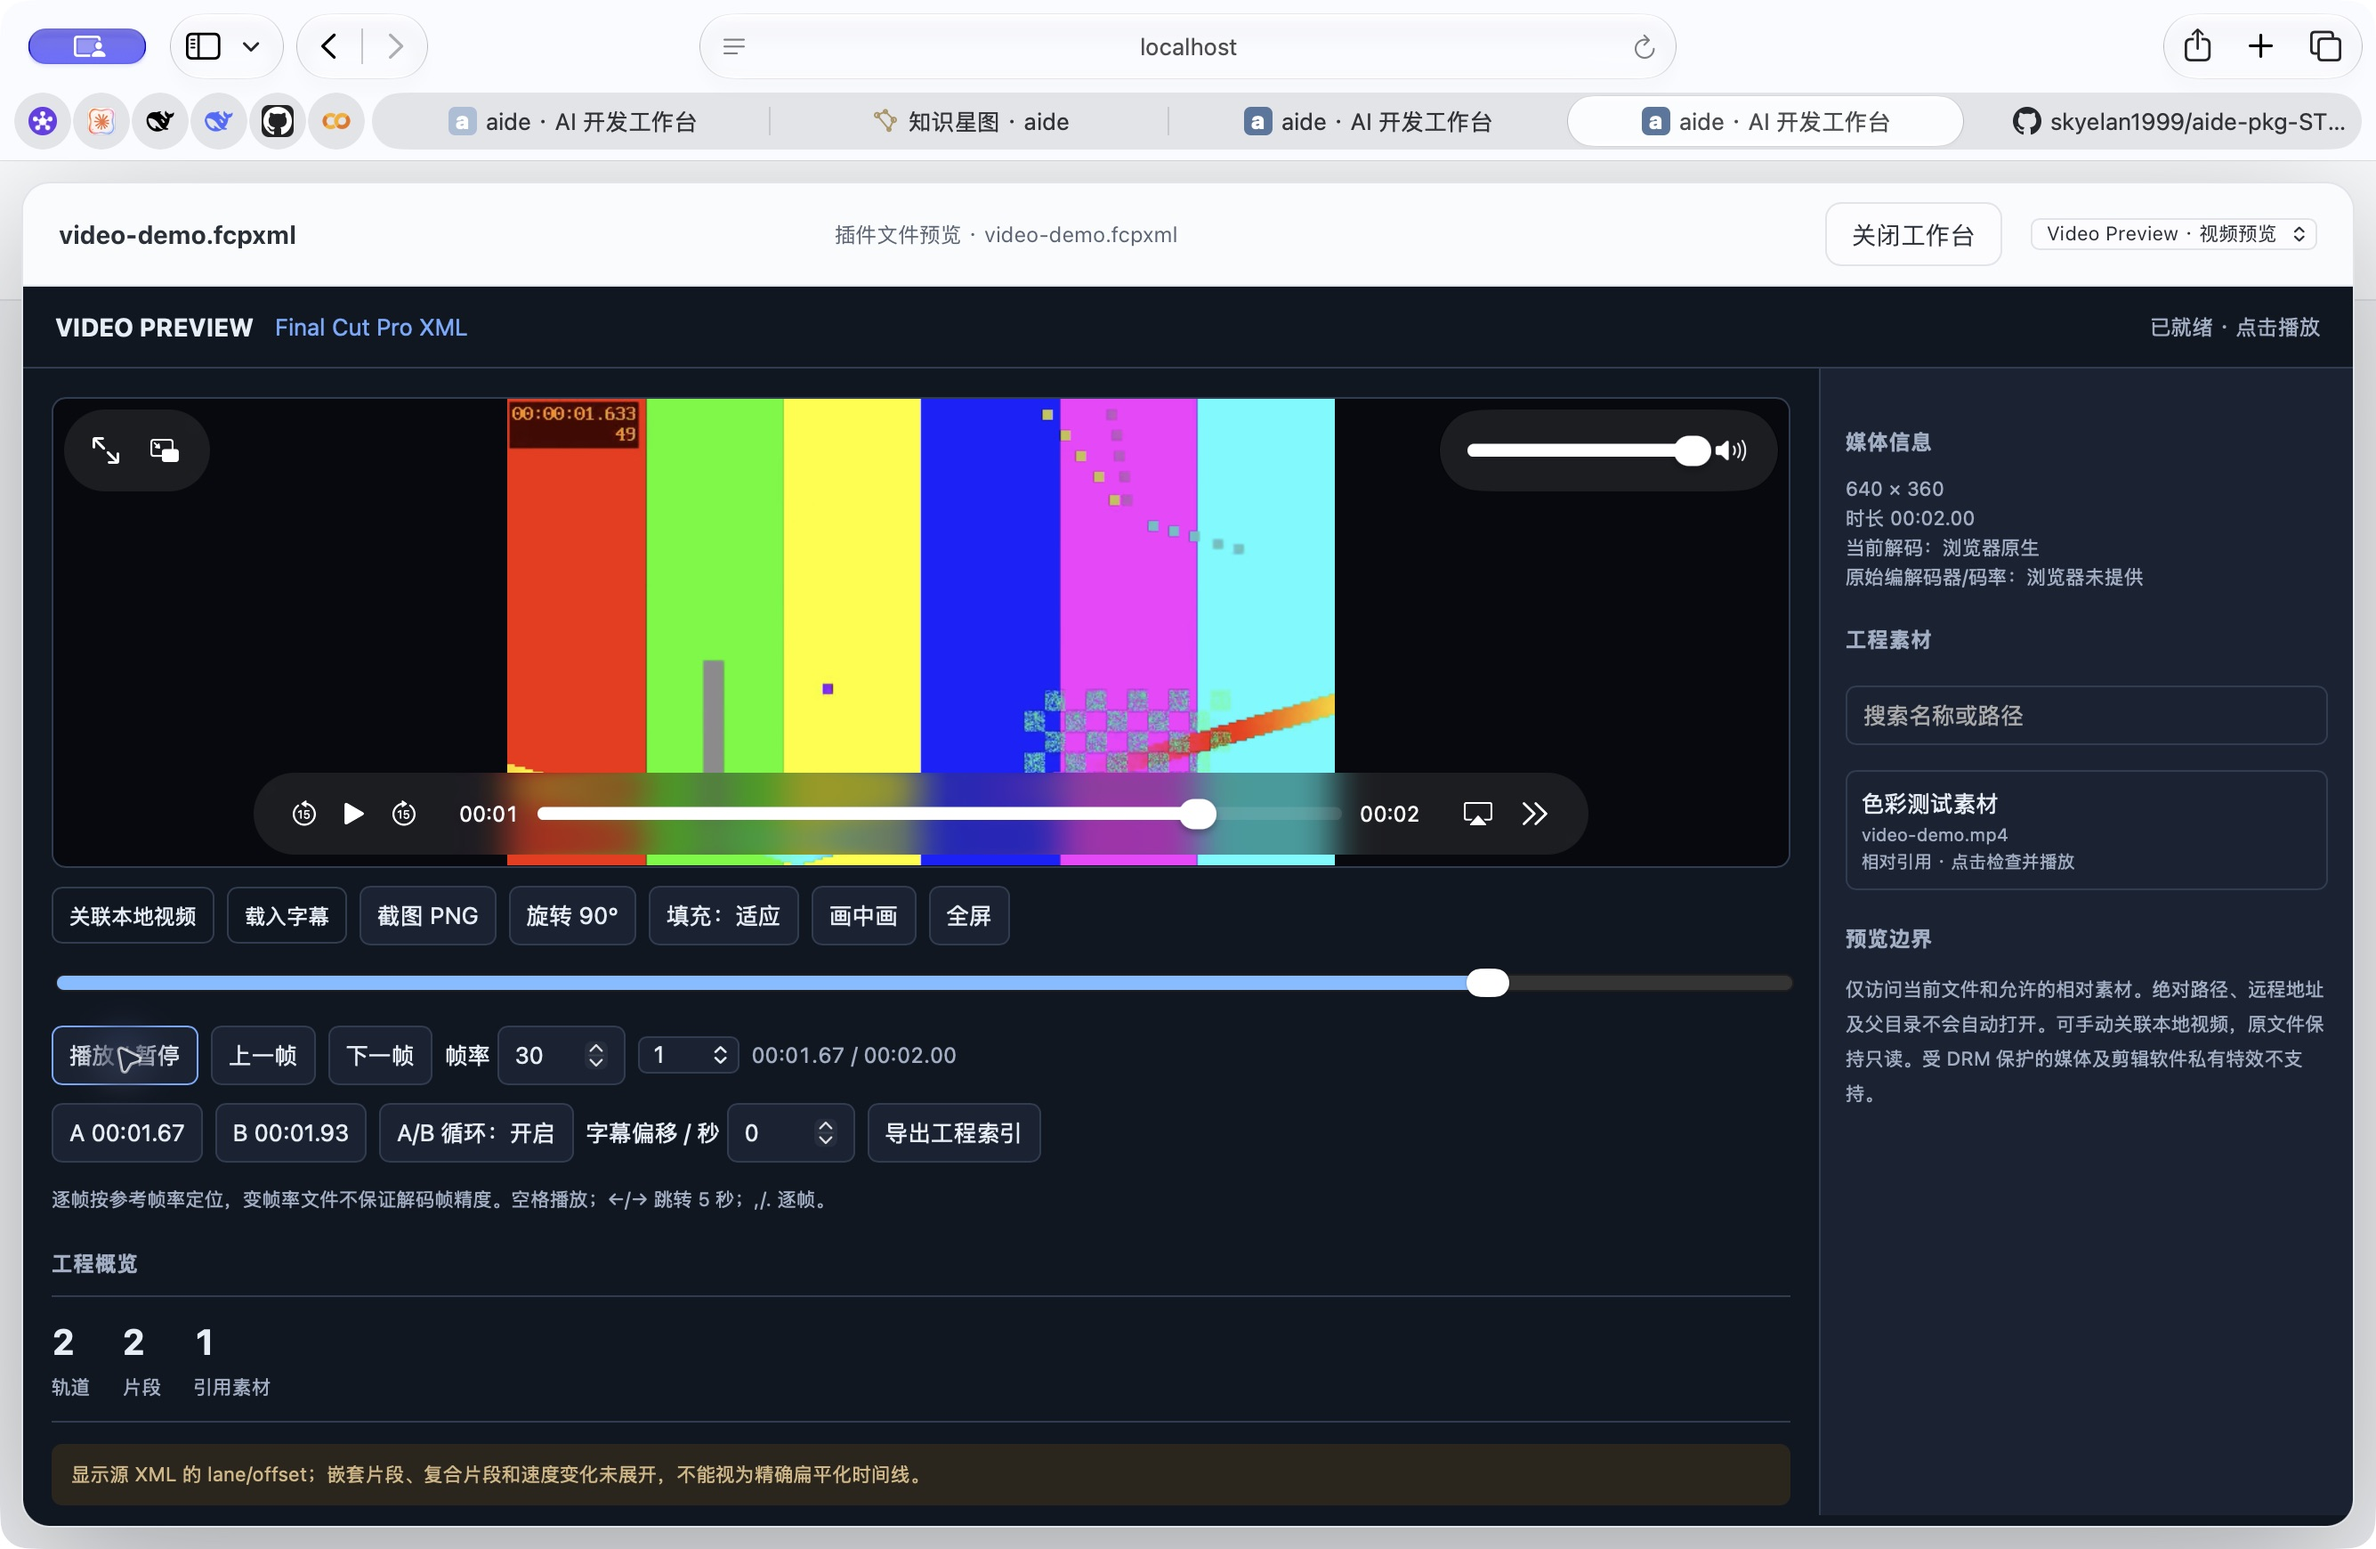
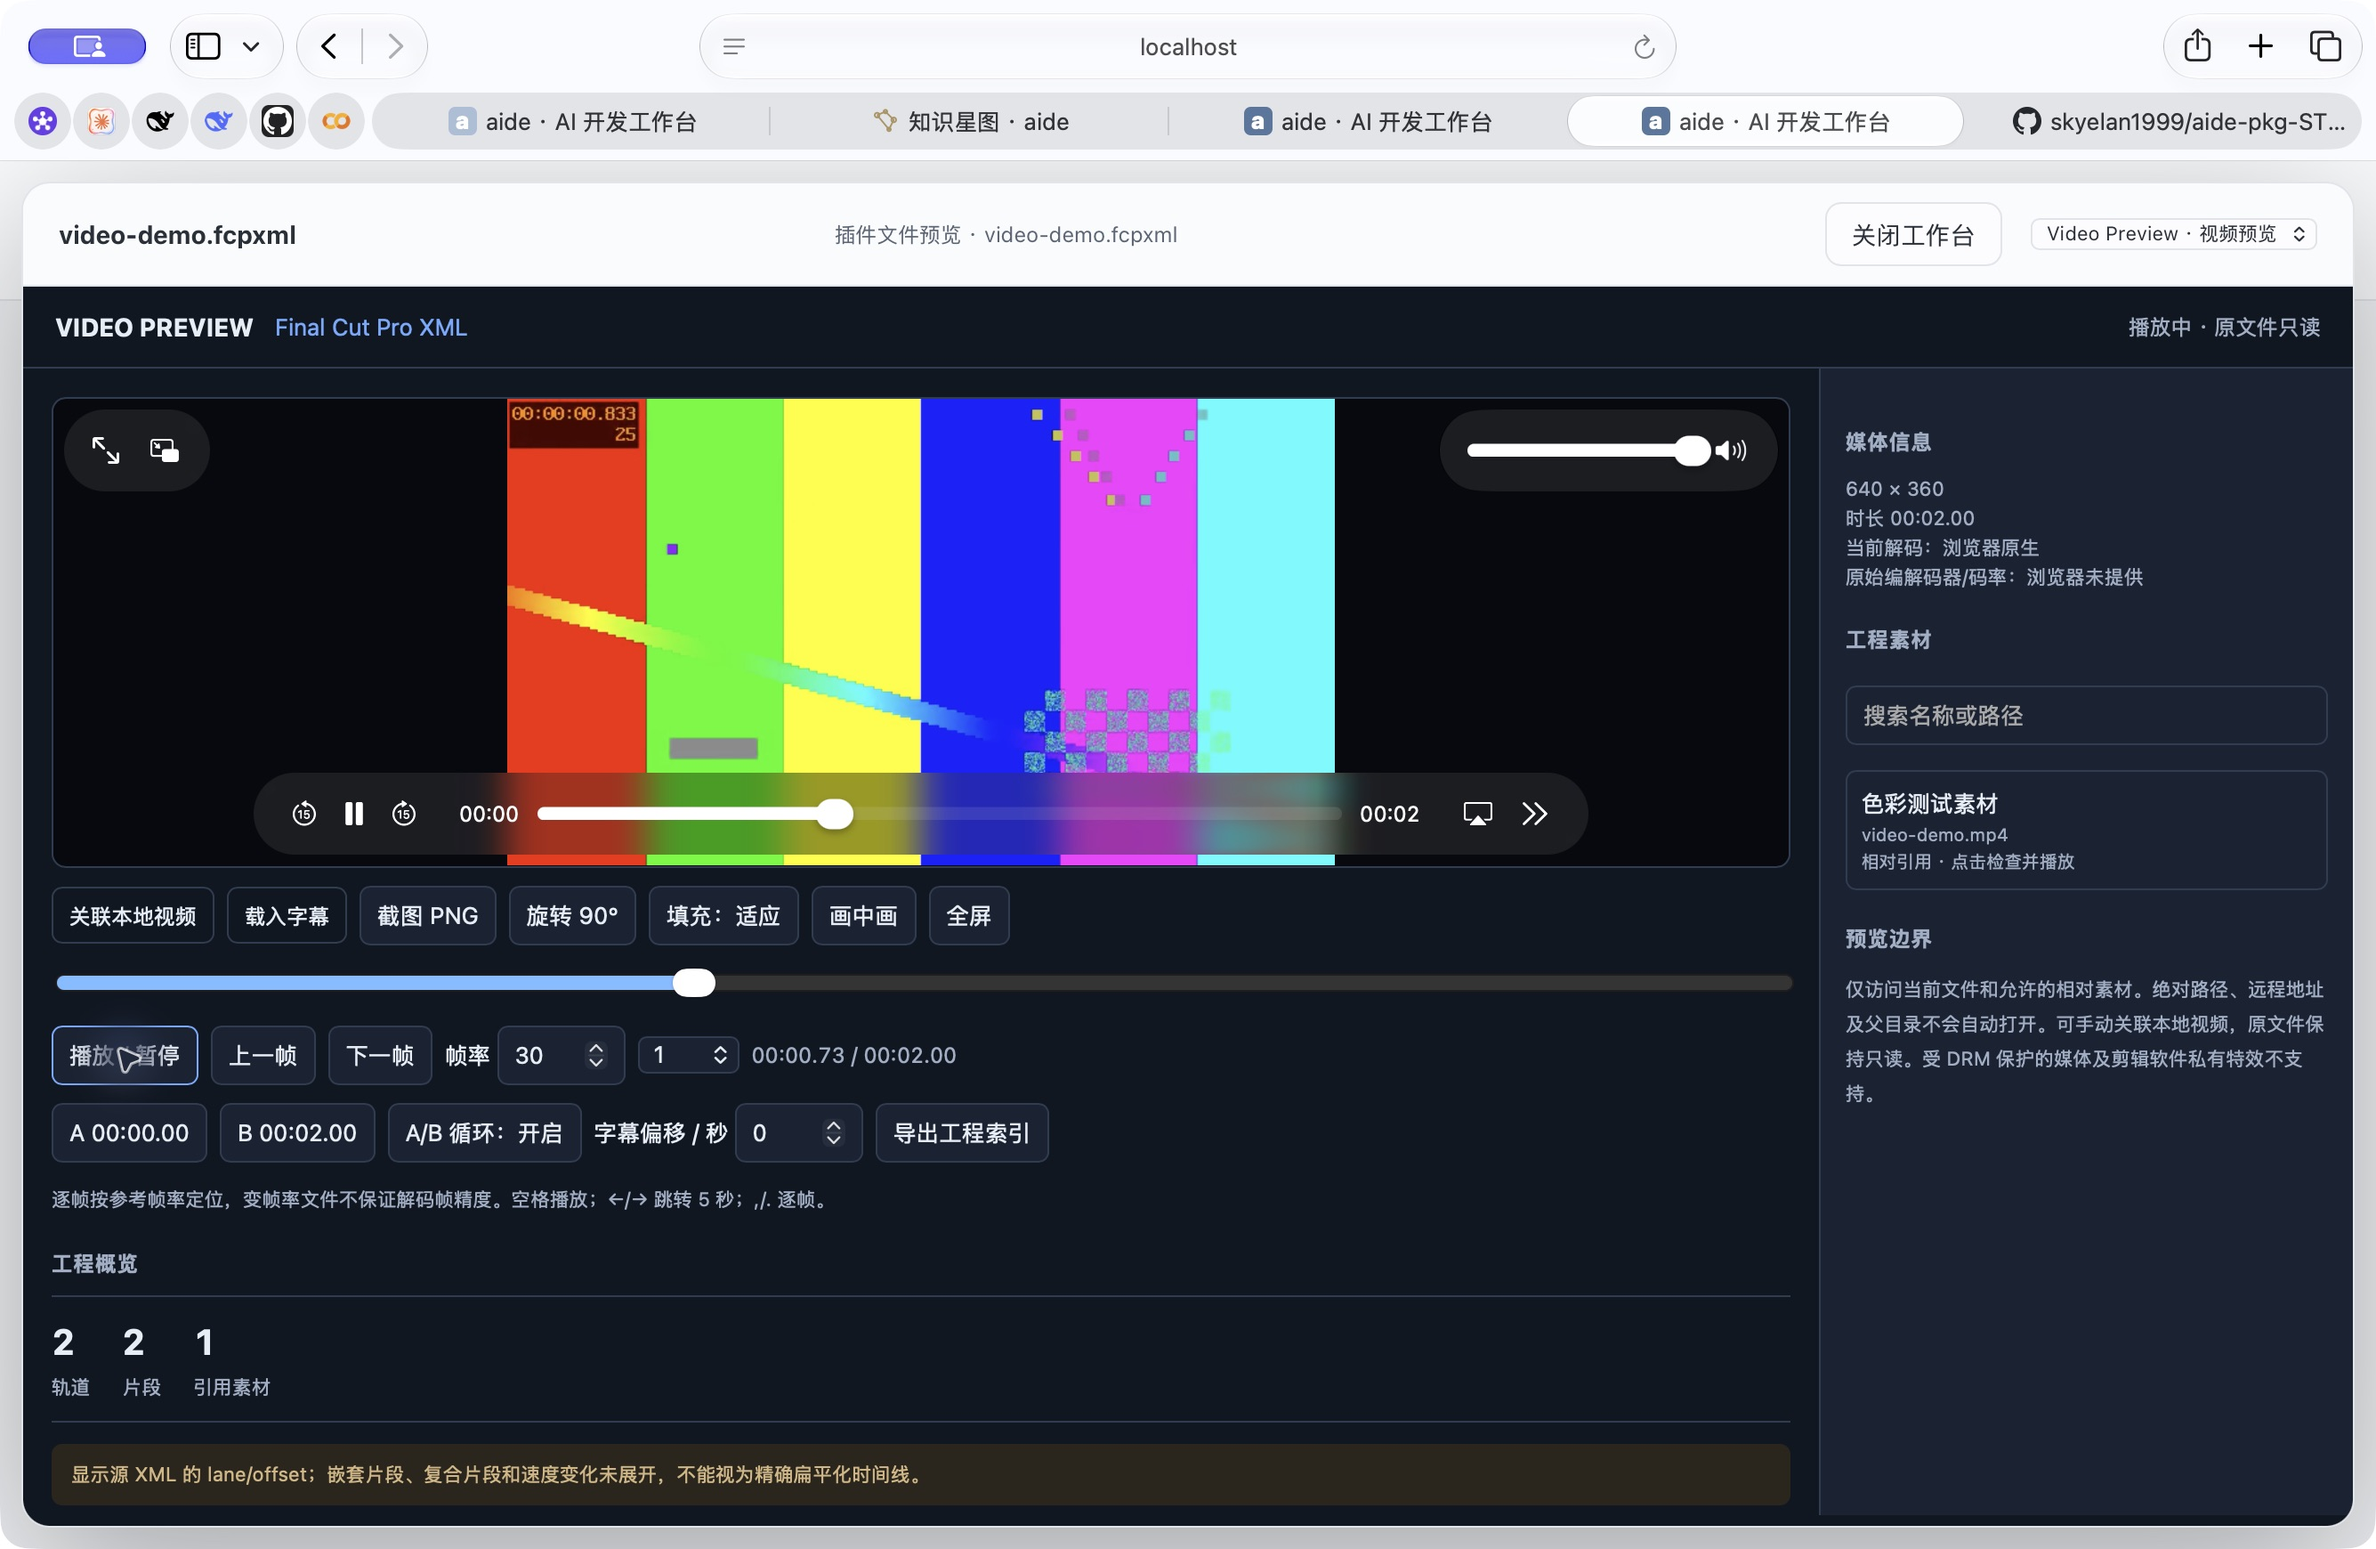
Record final Safari looping and unreleased host requirement

diff --git a/docs/verification.md b/docs/verification.md
@@ -5,9 +5,11 @@ Public source first version; no marketplace/Release acceptance is claimed.
 - Python: 14 tests PASS (OTIO gap/source timing, FCPXML rational times/bare DOCTYPE, xmeml, long Jianying microsecond ranges, MLT inclusive frame ranges/blank, gzip Premiere, DRP directory-only/no extraction, XML entity rejection, decompression bound, unsupported JSON/binary guidance, packaging inventory, bridge license hash).
 - Node: 4 tests PASS (actual opaque backend upload/offset rejection/parse/reclaim, permitted relative assets vs absolute/network/parent paths, finite time display, SRT conversion/size limits).
 - ZIP: 8 allowlisted files, CRC PASS, MIT and original Aide MIT notices included. No decoder binary/runtime/download catalog, caches, tests, private fixture, vendor SDK or font is shipped. Current ZIP hash and bytes are in dist/SHA256SUMS (generated, not tracked).
-- Safari: isolated Aide instance, synthetic FCPXML displays 2 lanes / 2 clips / 1 referenced MP4. Clicking the reference loads 640×360 / 2.00s, browser-native H.264 playback advances, approximate frame-step moves 10/30 seconds, A/B state reflects chosen bounds. Final end-of-file loop recovery was exercised after repairing it. Media names and timestamps use textContent; no project HTML is executed. Screenshot: docs/evidence/safari-project-player.jpg.
+- Safari: isolated Aide instance, synthetic FCPXML displays 2 lanes / 2 clips / 1 referenced MP4. Clicking the reference loads 640×360 / 2.00s, browser-native H.264 playback advances, approximate frame-step moves 10/30 seconds, A/B state reflects chosen bounds. Final end-of-file loop recovery was exercised after repairing it: A=0, B=2.00s, playback remained active and returned below 1s after multiple movie durations. Media names and timestamps use textContent; no project HTML is executed. Screenshot: docs/evidence/safari-project-player.jpg.
 - Host: existing workbench CSP blocked media Blob URLs. Separate source patch adds only `media-src blob:` and its sandbox header regression passed. External network, frame/object access and opaque-origin constraints remain unchanged. Requires that patch in a released host before media playback can be claimed in the stock main release. Project inspection works on the compatible existing bound-document bridge.
 - Test infrastructure: initial focused host Go test hit its 1 GiB temporary filesystem limit while linking; rerun with a separate on-disk build cache passed. This was not reported as a product pass until rerun succeeded.
 - Not verified: real private editor projects across vendor/version variants; accurate native effects/retiming/compositing; full-screen/PiP on every embedding host; actual subtitle file-picker flow and downloaded PNG/report read-back. SRT conversion and download implementation are covered only at their stated levels. The screenshot is generated synthetic footage, not user content.
 
 Copyright audit: wrapper and unmodified Aide bridge MIT; Python/Node/browser are host-provided. ARM64 imageio-ffmpeg candidate binary was checksum-verified and inspected via -version/-L: GPL-3.0-or-later configuration with x264/x265. Candidate is withheld, including the downloader, until exact corresponding source/build/linked-library license audit is complete. AMD64 binary audit is NOT_RUN. No blanket assertion of compatibility or legal clearance is made for an unshipped decoder.
+
+Host source patch: [Aide PR #47](https://github.com/skyelan1999/aide/pull/47), based on the pending STEP-extraction branch so that the visible diff stays limited. It must land in a released host before full installation acceptance.

diff --git a/README.md b/README.md
@@ -27,7 +27,7 @@ Limits: 16 MiB project input/decompressed XML, 2 MiB JSON bridge output, 128 MiB
 
 ## Install and build
 
-Install the ZIP under Aide Plugins → Upload, enable, then open a supported file. Requires Aide file-handler/workbench protocol 1 with bound-document methods and Python 3. Source checkout's `scripts/package.py` embeds Aide's MIT bridge and builds a reproducible ZIP; it includes licenses and excludes decoder candidates, tests and caches. A normal user does not compile anything.
+Development candidate: install the ZIP under Aide Plugins → Upload, enable, then open a supported file. Requires Aide file-handler/workbench protocol 1 with bound-document methods and Python 3. Actual video playback additionally requires the local-Blob media host patch in [Aide PR #47](https://github.com/skyelan1999/aide/pull/47); the current stock release has not been accepted for this playback path. No marketplace or plugin Release publication is claimed yet. Source checkout's `scripts/package.py` embeds Aide's MIT bridge and builds a reproducible ZIP; it includes licenses and excludes decoder candidates, tests and caches. A normal user does not compile anything.
 
 `python3 -m unittest discover -s tests -p '*test.py'`; `node --test tests/*.test.cjs`; `python3 scripts/package.py`.
 
